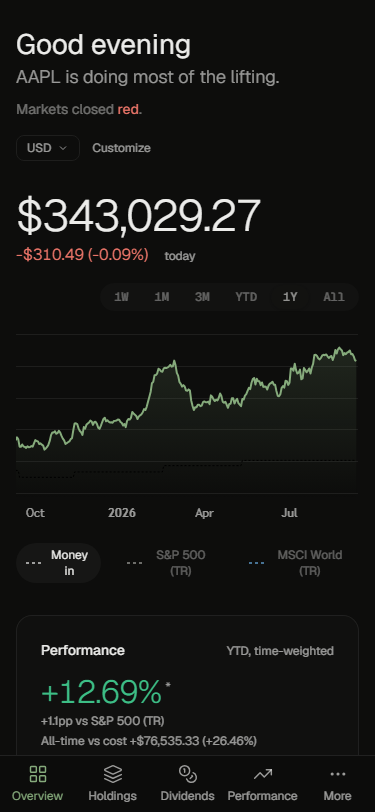
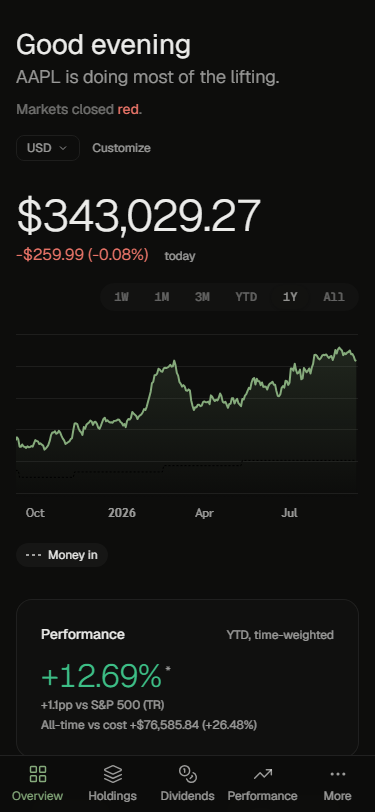
fix(web): the hero chart no longer draws a benchmark it cannot compare against
The overview chart plotted your portfolio's ABSOLUTE VALUE in the display
currency against a benchmark's PERCENTAGE CHANGE, on two independently
autoscaled price scales. One line stepped up the moment you deposited; the other
structurally could not. Where they sat relative to each other, and where they
crossed, carried no information at all — a book with steady inflows drew itself
above the index for the act of paying money in, and read as beating the market
when it was not.

Reported by the maintainer against his own book, which is the only place it is
obvious: on the demo book the inflows are small enough that the lines happen to
sit plausibly.

I had seen the two-scale setup and called it "a common convention in dual-axis
charts". That was wrong, and the comment now in the source says why: the problem
is not the scales, it is that one series responds to cash flows and the other
cannot represent them at all.

Removed rather than patched. There is no honest way to draw an index against a
currency-denominated value line: the right version is an index-equivalent
series — the same cash flows, on the same dates, invested into the index — drawn
in currency beside the value and "Money in", which is a different series and its
own piece of work.

`/performance` is unaffected and remains correct: there the portfolio is an
index too, so both sides are percentages on one scale. That is where benchmark
comparison lives until the equivalent line exists.
[…]

diff --git a/apps/web/components/portfolio-chart.tsx b/apps/web/components/portfolio-chart.tsx
@@ -16,7 +16,6 @@ import {
   readChartTheme,
   baseChartOptions,
   areaSeriesOptions,
-  comparisonSeriesOptions,
   attachHoverTooltip,
 } from "../lib/chart-config";
 import type { DashboardDTO, PortfolioHistoryDTO } from "../lib/types";
@@ -41,27 +40,25 @@ const RANGE_LABEL: Record<string, string> = {
 
 const INITIAL_RANGE = "1Y";
 
-const COMPARISON_INDEX: Record<string, 0 | 1> = { sp500: 0, "msci-world": 1 };
-
-/** Toggle order and colour per benchmark, and the label to show before the
- *  series is on.
+/* Benchmark overlays were removed from this chart on 2026-09-10, deliberately.
  *
- *  Both toggles start OFF and the history query only asks for the ones that are
- *  on, so `data.benchmarks` is empty in the default state and `label` — not the
- *  server's name — is what a visitor actually reads. It therefore has to carry
- *  the same "(TR)" qualifier the server uses, or the toggle reads "S&P 500"
- *  beside a card reading "versus S&P 500 (TR)" on the same screen, as it did
- *  before 2026-09-10.
+ * This series is your portfolio's ABSOLUTE VALUE in the display currency, so it
+ * steps up the moment you deposit. A benchmark can only be drawn here as a
+ * percentage, on its own independent price scale — which meant one line moved
+ * with your cash flows and the other structurally could not, on two axes that
+ * autoscaled separately. Where the lines sat relative to each other, and where
+ * they crossed, carried no information at all: a book with steady inflows drew
+ * itself above the index for depositing money.
  *
- *  This IS a second copy of a name that belongs to `BENCHMARKS` in
- *  `apps/api/src/services/valuation-series.ts`, and there is no build-time link
- *  between them: `apps/web` cannot import from the API. Turning a toggle on
- *  replaces this with the server's own name, so a drift shows up as the label
- *  changing when you click it. Keep them in step by hand. */
-const BENCHMARKS = [
-  { key: "sp500", label: "S&P 500 (TR)", cssVar: "var(--chart-comparison-1)" },
-  { key: "msci-world", label: "MSCI World (TR)", cssVar: "var(--chart-comparison-2)" },
-];
+ * `/performance` compares against benchmarks correctly and still does — there
+ * the portfolio is an index too, so both sides are percentages on one scale.
+ *
+ * The right version of this chart is an index-equivalent line: the same cash
+ * flows, on the same dates, invested into the index instead, drawn in currency
+ * beside the value and "Money in". Until that exists, no benchmark belongs
+ * here. `/portfolio/history` still accepts a `benchmarks` param, and this was
+ * its only caller.
+ */
 
 /** Apply an alpha to a resolved CSS color. Theme tokens resolve to either hex
  *  or rgb()/rgba() strings, so handle both (a bare hex-suffix on an rgba string
@@ -99,10 +96,6 @@ export function PortfolioChart({
   const ambient = variant === "ambient";
   const [range, setRange] = React.useState(INITIAL_RANGE);
   const [showInvested, setShowInvested] = React.useState(true);
-  const [showBenchmarks, setShowBenchmarks] = React.useState<Record<string, boolean>>({
-    sp500: false,
-    "msci-world": false,
-  });
   // The server-rendered initialHistory was fetched with whatever displayCurrency
   // this component first mounted with; capture it once so a later currency
   // change (a new prop value, same mounted instance) doesn't keep seeding stale
@@ -112,17 +105,9 @@ export function PortfolioChart({
   const chartRef = React.useRef<IChartApi | null>(null);
   const { resolvedTheme } = useTheme();
 
-  const activeBenchmarks = React.useMemo(
-    () =>
-      Object.entries(showBenchmarks)
-        .filter(([, v]) => v)
-        .map(([k]) => k),
-    [showBenchmarks],
-  );
-
   const { data, isLoading, isPlaceholderData } = useQuery({
-    queryKey: qk.portfolioHistory(range, displayCurrency ?? undefined, activeBenchmarks),
-    queryFn: () => getPortfolioHistory(range, displayCurrency ?? undefined, activeBenchmarks),
+    queryKey: qk.portfolioHistory(range, displayCurrency ?? undefined),
+    queryFn: () => getPortfolioHistory(range, displayCurrency ?? undefined),
     staleTime: 300_000,
     // Keep the previous range's chart on screen while a new range fetches, so
     // switching timelines never collapses the block into a skeleton (no CLS,
@@ -130,9 +115,7 @@ export function PortfolioChart({
     // genuine first load with no seeded/cached data.
     placeholderData: keepPreviousData,
     initialData:
-      range === INITIAL_RANGE &&
-      (displayCurrency ?? undefined) === initialCurrencyRef.current &&
-      activeBenchmarks.length === 0
+      range === INITIAL_RANGE && (displayCurrency ?? undefined) === initialCurrencyRef.current
         ? initialHistory
         : undefined,
   });
@@ -184,16 +167,6 @@ export function PortfolioChart({
       investedSeries.setData(investedData);
     }
 
-    if (data?.benchmarks && data.benchmarks.length > 0) {
-      for (const bm of data.benchmarks) {
-        const bmSeries = chart.addSeries(LineSeries, {
-          ...comparisonSeriesOptions(theme, COMPARISON_INDEX[bm.symbol] ?? 0),
-          priceScaleId: "benchmark",
-        });
-        bmSeries.setData(bm.points.map((p) => ({ time: p.date, value: p.percentChange })));
-      }
-    }
-
     chart.timeScale().fitContent();
 
     const detachTooltip = attachHoverTooltip(chart, series, containerRef.current, (v) =>
@@ -221,7 +194,7 @@ export function PortfolioChart({
     // data?.points is already captured via chartData (derived from it); adding it
     // would rebuild the chart on every refetch that produced identical points.
     // eslint-disable-next-line react-hooks/exhaustive-deps
-  }, [chartData, investedData, showInvested, resolvedTheme, data?.benchmarks, ambient]);
+  }, [chartData, investedData, showInvested, resolvedTheme, ambient]);
 
   if (isLoading) return ambient ? <AmbientChartSkeleton /> : <HeroSkeleton />;
   if (!data || data.points.length === 0) {
@@ -315,31 +288,6 @@ export function PortfolioChart({
           />
           Money in
         </button>
-        {BENCHMARKS.map(({ key, label, cssVar }) => {
-          const active = showBenchmarks[key] ?? false;
-          const name = data?.benchmarks?.find((b) => b.symbol === key)?.name ?? label;
-          return (
-            <button
-              key={key}
-              type="button"
-              onClick={() => setShowBenchmarks((prev) => ({ ...prev, [key]: !prev[key] }))}
-              className={`flex items-center gap-1.5 rounded-full px-2.5 py-1 text-xs transition-colors ${
-                active
-                  ? "bg-surface-hover text-foreground"
-                  : "text-muted-foreground opacity-60 hover:opacity-100"
-              }`}
-            >
-              <span
-                data-series-swatch
-                className="h-0.5 w-4 flex-none"
-                style={{
-                  background: `repeating-linear-gradient(to right, ${cssVar} 0 3px, transparent 3px 6px)`,
-                }}
-              />
-              {name}
-            </button>
-          );
-        })}
       </div>
 
       {data.fxIncomplete && (

diff --git a/apps/web/components/portfolio-chart.test.tsx b/apps/web/components/portfolio-chart.test.tsx
@@ -229,22 +229,27 @@ describe("PortfolioChart", () => {
     expect(screen.getByTitle(/contributions minus withdrawals/i)).toBeInTheDocument();
   });
 
-  // jsdom's cssstyle does not resolve CSS custom properties, so this can only
-  // catch a literal copy-paste typo (e.g. both swatches wired to the same
-  // `--chart-comparison-*` variable name). It cannot tell whether the two
-  // variables resolve to the same colour -- that guarantee lives in
-  // packages/ui/src/styles/tokens.test.ts, which reads tokens.css and compares
-  // the actual resolved values.
-  it("wires each benchmark legend swatch to its own CSS variable, not a shared one", async () => {
+  // A regression guard, not a coverage box. Benchmark overlays were removed
+  // from this chart on 2026-09-10 because they could not be drawn honestly
+  // here: this series is absolute portfolio value, so it steps up when you
+  // deposit, while a benchmark can only be a percentage on its own
+  // independently-autoscaled axis. One line moved with cash flows, the other
+  // structurally could not, and a book with steady inflows drew itself above
+  // the index for the act of depositing money.
+  //
+  // If someone re-adds a toggle here, this fails and they have to read why.
+  // The honest version is an index-equivalent line in currency (same flows,
+  // same dates, invested into the index) — that is a different series, and it
+  // would not be labelled with a bare index name, so this stays valid.
+  it("offers no benchmark overlay, because value and an index share no scale", async () => {
     renderWithClient(
       <PortfolioChart initialHistory={history} displayCurrency={null} todayChange={null} />,
       makeTestQueryClient(),
     );
-    const sp = await screen.findByRole("button", { name: /S&P 500/ });
-    const msci = await screen.findByRole("button", { name: /MSCI World/ });
-    const swatch = (b: HTMLElement) => b.querySelector("[data-series-swatch]") as HTMLElement;
-    expect(swatch(sp)).toBeTruthy();
-    expect(swatch(msci)).toBeTruthy();
-    expect(swatch(sp).style.background).not.toBe(swatch(msci).style.background);
+    // "Money in" proves the legend rendered at all, so the absences below are
+    // evidence rather than a query that ran before anything mounted.
+    expect(await screen.findByRole("button", { name: /Money in/ })).toBeInTheDocument();
+    expect(screen.queryByRole("button", { name: /S&P 500/ })).not.toBeInTheDocument();
+    expect(screen.queryByRole("button", { name: /MSCI World/ })).not.toBeInTheDocument();
   });
 });
